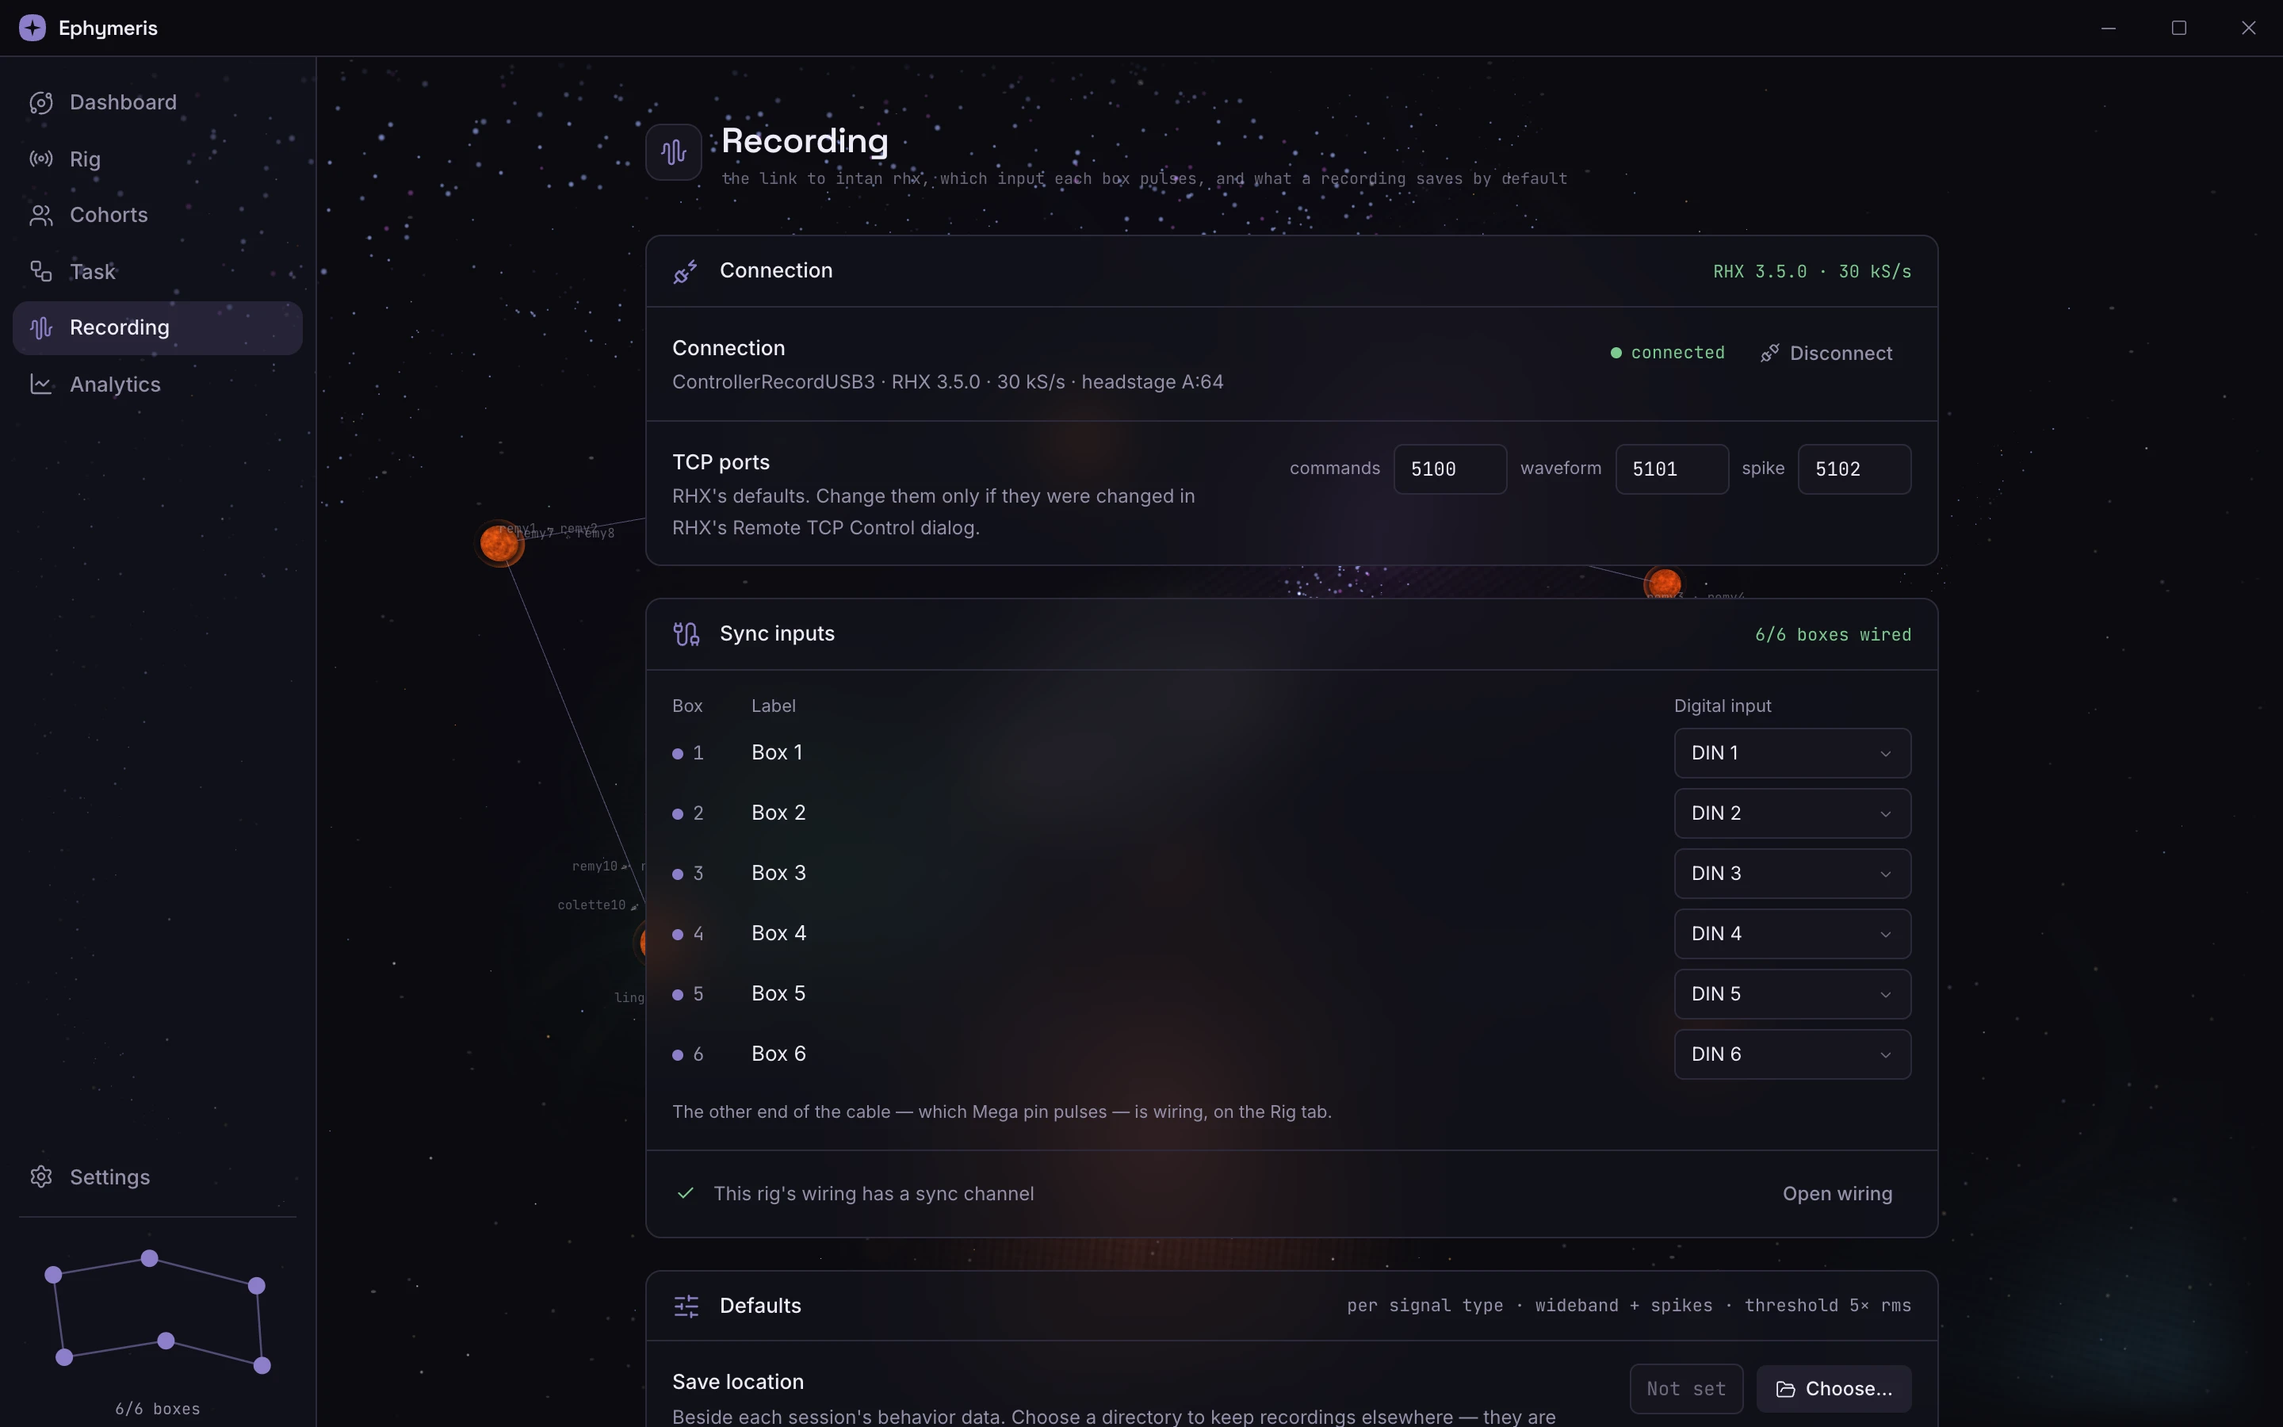
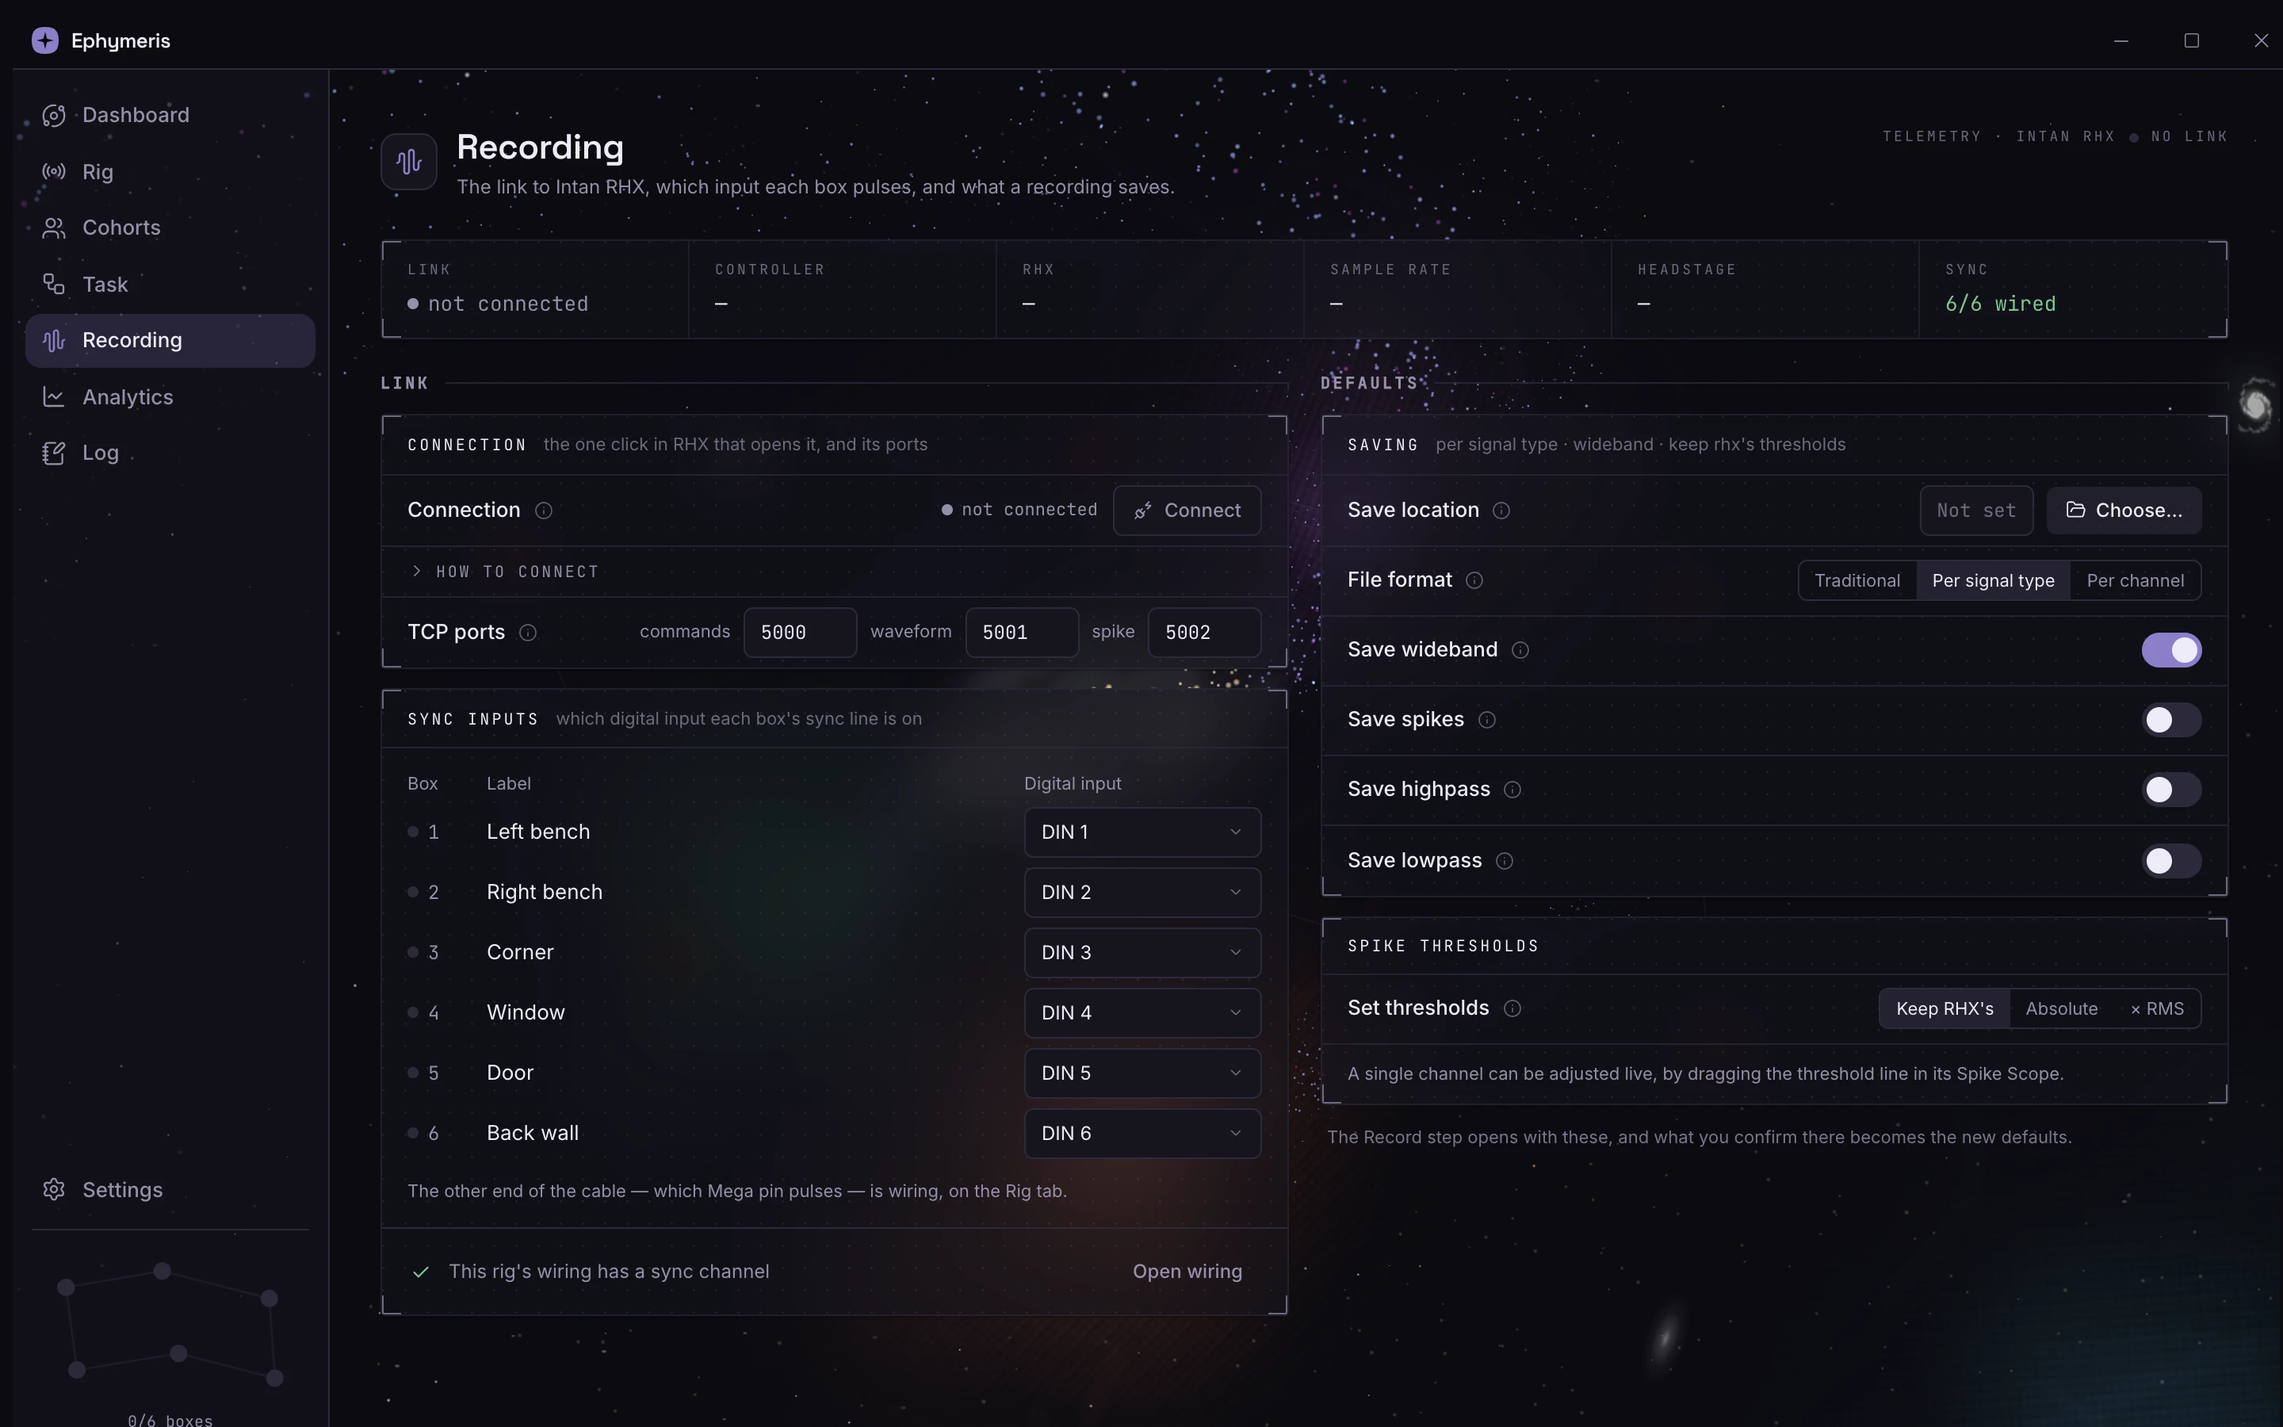
Retake the doc screenshots for the redesigned screens
New captures of the Dashboard, the all-boxes Debug view, the Recording tab,
the Analytics cohort list and the task editor (landing, editor, trial
types, trial generation, ramp), embedded back where the redesigns removed
the stale ones. Widen FieldRow's unit slot and tighten StageList's cells
so "trials" and five-digit holds fit.

diff --git a/src/components/task/editor/StageList.tsx b/src/components/task/editor/StageList.tsx
@@ -197,7 +197,7 @@ export function StageList({
 
 /** One row's shape, shared by the header and every stage. */
 const GRID =
-  "grid grid-cols-[1.25rem_repeat(5,minmax(0,1fr))_0.875rem] items-center gap-x-1";
+  "grid grid-cols-[1.25rem_repeat(5,minmax(0,1fr))_0.75rem] items-center gap-x-0.5";
 
 function ColumnHead({ top, bottom }: { top: string; bottom: string }) {
   return (
@@ -307,7 +307,7 @@ function Cell({
       align="right"
       invalid={invalid ?? false}
       autoFocus={autoFocus ?? false}
-      className="w-full px-1.5 py-0.5 text-[11px]"
+      className="w-full px-1 py-0.5 text-[10.5px] tabular-nums"
       onChange={onChange}
     />
   );

diff --git a/src/components/common/FieldRow.tsx b/src/components/common/FieldRow.tsx
@@ -147,7 +147,7 @@ export function FieldRow({
       <span className="min-w-0 pt-1">{caption}</span>
       <span className="flex shrink-0 items-center gap-1.5">
         {control}
-        <span className="w-[34px] shrink-0 font-mono text-[10px] text-static/70">
+        <span className="w-[38px] shrink-0 font-mono text-[10px] text-static/70">
           {unit ?? ""}
         </span>
       </span>

diff --git a/docs/TASKS.md b/docs/TASKS.md
@@ -886,6 +886,8 @@ The Task tab answers *what the animal does*; the Rig tab answers *what this box 
 
 `/task` (`routes/Task.tsx`) lists this rig's saved tasks (`TaskRow`), with open, **Duplicate**, delete and create; a door to the strobe vocabulary; and `LibraryStatusNote`, since a damaged install is the one thing that stops a task existing at all. Duplicate opens an **unsaved** copy named clear of every saved task (`GRGL copy`, `GRGL copy 2`) and **drops `legacyNames`**: a legacy name resolves to one sketch, so a copy carrying it would silently take over or lose the historical runs it decodes.
 
+![The Task tab: a + New task row, then three saved tasks — 4-Odor Discrimination (weighted, 4 conditions, no ramp), Shaping - Both Sides (pool, 5 stages) and 2-Odor Discrimination (anti-bias, 5 stages) — each marked ready, with the Strobes door below](images/task-landing.webp)
+
 ### Editor
 
 `/task/new` and `/task/:taskId` (`routes/TaskEditor.tsx`) is a [telemetry display](ARCHITECTURE.md#telemetry-panels) in one frame: the derived **state machine** front and centre with every **trial type** beneath it, and beside them the **parameter dial** and **trial generation**. The diagram is the fastest check that an edit did what was meant, so it is never off screen. **Every redraw comes from `tasks.preview`**: the diagram is derived from the profile the *current* definition compiles to, and validation needs the wiring, which the frontend does not hold.
@@ -894,6 +896,8 @@ The Task tab answers *what the animal does*; the Rig tab answers *what this box 
 - **One link, read from every end.** A planet, the generation panel or a machine chip lights the states it tunes; hovering a state lights its planet; a trial row or a composition segment lights its condition's tick. A chip or state click opens its home. The machine's own condition list is off here (`conditionRail={false}`): the trial rows are the accessible condition list.
 - **The machine draws itself on** left to right on first sight (a `DrawOn` clip wipe, each state fading in as the wipe reaches it), and a small flat dot rides the rewarded trial from start to ITI (`happyPath`, `spinePath`). The dot is not the live token: it has no ring, and it is hidden under reduced motion and whenever anything is lit.
 - **The machine has a floor and the page bends around it** (`lib/tasks/editorLayout.ts`). It is never drawn narrower than `EDITOR_MIN_W` and never scaled. **Split**: the machine and trial types in the main column, the dial and generation in an aside. **Stacked** — when the aside would squeeze the machine below its floor, as on the app's minimum window — the aside's panels move under the trial types and the page scrolls. Panels carry `layoutId`s, so they travel between homes on a spring, and the drawing's layout width moves in `WIDTH_STEP`s that glide (`useGlidingWidth`).
+
+![The task editor for 4-Odor Discrimination: the START meter and Details at the top, the state machine across the left, four trial types below it (Sandalwood, Orange, Cedar and Lemon, each with its odor line, well, fluid line, reward and weight), the Parameters dial on Session at the top right, and Trial generation set to Weighted below it](images/task-editor.webp)
 
 ### Trial types
 
@@ -905,15 +909,21 @@ The Task tab answers *what the animal does*; the Rig tab answers *what this box 
 - Each row is **named** (`TSK110`/`TSK111`) and has a second line — its onset code and the contingency in the rig's own labels ("sandalwood → left well, paid from fluid 0 · plumbed to left well"), the one rendering that catches `TSK103` by eye — or its first problem. When the rows would not all fit two lines in the room the panel has, they go to one line and the hovered row's second line shows in a caption below.
 - A no-go row outside Pool says it is never presented ([Selection modes](#selection-modes)).
 
+![The Trial types panel for 4-Odor Discrimination under weighted selection: four rows, each with its odor line, answers at, paid from, reward ms and weight, and a second line giving its onset code (ODOR_1_ON · 101 to ODOR_4_ON · 104) and its contingency](images/task-trial-table.webp)
+
 ### Trial generation
 
 `editor/GenerationPanel.tsx` makes how the next trial is chosen a choice of its own: the three modes as one control, a sentence on how each draws and a ✓/✗ row of what it does (`lib/taskdef/selection.ts`, a hand mirror of the [selection modes](#selection-modes)), and a **composition strip** — the session the mode would deal, each condition in its colour; two side halves for the anti-bias modes, one bar for the pool, never-presented types as outlines after it.
 
 Below sit the groups that are selection policy: **Anti-bias selection**, **Trial pool** (the block size) and **Correction trials** (the firmware runs correction budgets as policy, and the pool has none). A group the mode never reads folds to one dimmed "not used in pool" line that still opens, so its values survive switching back; a field the mode skips inside a live group (the escalation fields under pool, the no-go window outside it) is dimmed with a note. Table-level `TSK109` shows here.
 
+<img src="images/task-generation.webp" alt="The Trial generation panel set to Weighted: the mode switch, the hint and its facts, the composition strip split into right and left halves by row weight, Trial pool folded as not used in weighted, and the Correction trials and Anti-bias selection fields" width="360">
+
 ### Ramp and START meter
 
 The ramp is the dial's **Holds & shaping** stop (`editor/StageList.tsx`): one compact row per stage — the trial it engages at, odor hold, well hold, response window, odor port window — with the timeline strip once there is more than one stage. Row 0 has no "engages at"; a new row is seeded from the row before it, never from a defaults table, so no stage appears carrying numbers nobody chose. The header's **`START` meter** shows the built line's length against `START_LINE_MAX` and is never hidden: that cap is the one budget an operator can exhaust without noticing, each added stage costs five tokens, and over the cap the meter says the firmware truncates in silence.
+
+<img src="images/task-ramp.webp" alt="The Parameters dial turned to Holds &amp; shaping for 2-Odor Discrimination: a timeline of five stages engaging at trials 0, 15, 30, 50 and 80, and one row per stage with its odor hold, well hold, response window and port window, above the note that each stage costs five START tokens" width="385">
 
 ### Parameter dial
 

diff --git a/docs/USER-GUIDE.md b/docs/USER-GUIDE.md
@@ -99,6 +99,8 @@ box](#checking-a-box)). At the foot of the list, **Command all boxes** opens one
 (see [Commanding every box](#commanding-every-box)). Below it, the **Observatory** switches between your
 cohorts, their reward accuracy over sessions, and the most recent sessions; click any row to open it.
 
+![The Dashboard: Start a Session and Start a Recording ("RHX not connected") with the Rig and Task doors on the left; the rig's six boxes as labelled stars in the 3D sky; the Boxes list on the right with each box's label, port and resting program and Command all boxes at its foot; and the Observatory below it listing four cohorts](images/dashboard.webp)
+
 While a session is running, the big button reads **Resume Session** and the dock shows the session: its
 name, which boxes are recording, and **Open Mission Control** and **End Session** buttons.
 
@@ -123,6 +125,8 @@ the top left.
 a task makes a program that can be put on a box. Usually managed by the lab manager. The landing page
 lists each saved task with its number of conditions, its stages and whether it is **ready**.
 
+![The Task tab: a + New task row, then three saved tasks — 4-Odor Discrimination (weighted, 4 conditions, no ramp), Shaping - Both Sides (pool, 5 stages) and 2-Odor Discrimination (anti-bias, 5 stages) — each marked ready, with the Strobes door below](images/task-landing.webp)
+
 Opening a task shows everything about it on one screen:
 
 - **The state machine** across the top: every step of a trial, drawn from what the task presents.
@@ -139,6 +143,8 @@ Opening a task shows everything about it on one screen:
   category's settings appear below. **Holds** is the shaping ramp.
 - At the top: **Problems** (click one to go to it), the **START** meter (keep it out of the red), and
   **Details** (category, older names, notes). Save when done; a task saves even with problems.
+
+![The task editor for 4-Odor Discrimination: the START meter and Details at the top, the state machine across the left, four trial types below it (Sandalwood, Orange, Cedar and Lemon, each with its odor line, well, fluid line, reward and weight), the Parameters dial on Session at the top right, and Trial generation set to Weighted below it](images/task-editor.webp)
 
 The **Strobes** tile opens the list of every event a box can report and the number it is recorded as.
 The band across the top shows all the numbers from 0 to 999: purple ones are in use, grey ones are
@@ -162,6 +168,8 @@ and the default recording settings. See [Recording with Intan](#recording-with-i
 **Analytics.** Results. Pick a cohort from the list to see its sessions, animals and learning curves.
 Each row shows the cohort's planet, its animals, groups and cages, how many sessions it has and when it
 last ran. The most recently run cohort is at the top.
+
+![The Analytics landing: "Pick a cohort to study its recorded sessions" above a list of four cohorts, each with its planet, its animals and groups, its session count and when it last ran](images/analytics-landing.webp)
 
 **Log.** The lab notebook: every session of a cohort on a timeline, with its start, end and elapsed
 time, notes anyone wrote, and what changed since the last session. See [Keeping the log](#keeping-the-log).
@@ -624,6 +632,8 @@ READY received*. During animal placement the app lights each box for you.
 **Command all boxes**, at the foot of the Dashboard's **Boxes** list, opens Debug Mode for the whole rig.
 The view pulls back to show every box's star above a panel along the bottom. **Nothing here is recorded
 as data.** Press Esc or click **← Constellation** to go back.
+
+![Command all boxes: the sky pulled back to all six stars, each ringed as targeted, above a bottom panel with Targets (a card per box), Connection (baud rate and Open consoles), Controls and the merged Console](images/debug-all.webp)
 
 - **Targets.** Every command goes to the *targeted* boxes, which are ringed in the sky. Boxes that are
   on the bus start targeted. Click a box's star, or its card, to take it in or out; **all**, **detected**

diff --git a/README.md b/README.md
@@ -7,7 +7,7 @@ bookkeeping around it: cohorts, animals, groups, session prefixes and session re
 reads the recorded archive back and draws learning curves, per-condition accuracy and strategy plots.
 A session can also drive an Intan RHX electrophysiology recording alongside the behaviour.
 
-![The Ephymeris Dashboard on a six-box rig: Start a Session and Start a Recording at the top left, the rig's boxes drawn as stars in a 3D sky, and tiles for the Rig, Task, Cohorts, Boxes (6/6 connected) and Analytics with recent sessions](docs/images/dashboard.webp)
+![The Ephymeris Dashboard on a six-box rig: Start a Session and Start a Recording at the top left, the rig's boxes drawn as labelled stars in a 3D sky, the Boxes list with Command all boxes on the right, and the Observatory listing the lab's cohorts](docs/images/dashboard.webp)
 
 *The Dashboard. Each star in the sky is a behaviour box; the figure in the sidebar's corner is the same six boxes as a status readout, on every screen.*
 

diff --git a/docs/ARCHITECTURE.md b/docs/ARCHITECTURE.md
@@ -1022,7 +1022,7 @@ writes settings **once per completed drag**.
 There is **one app-wide WebGL canvas** (`components/constellation3d/SharedCanvas.tsx`) that views adopt in
 turn — never a canvas per view.
 
-![The Dashboard's 3D sky: box stars labelled Box 1 to Box 5 joined by lines, with each box's animals named beside its star](images/dashboard.webp)
+![The Dashboard over the rig's 3D sky: six box stars labelled with their box number and bench name (1 Left bench to 6 Back wall), with the launch column on the left and the Boxes list and Observatory on the right](images/dashboard.webp)
 
 *The rig's sky on the Dashboard. Compare it with Mission Control under [Running boxes](#running-boxes): the
 same stars sit in the same places, relabelled with the animals they hold, because both views resolve

diff --git a/docs/RECORDING.md b/docs/RECORDING.md
@@ -317,6 +317,8 @@ Link is the left column and Defaults the right. Rows are `SettingRow` at **compa
 (`SettingRowDensityContext`): label and control on one line, the explanation behind an ⓘ `InfoHint`. The
 Record step renders the same rows at full density.
 
+![The Recording tab: a readout strip (not connected, sync 6/6 wired); Link on the left with Connection, its "How to connect" disclosure and the three TCP ports, and Sync inputs mapping boxes 1 to 6 to DIN 1 to 6; Defaults on the right with Saving and Spike thresholds as compact rows](images/recording-tab.webp)
+
 ### Record step
 
 The Dashboard's Start Recording tile opens `/session/new?mode=recording`, which creates the session with
